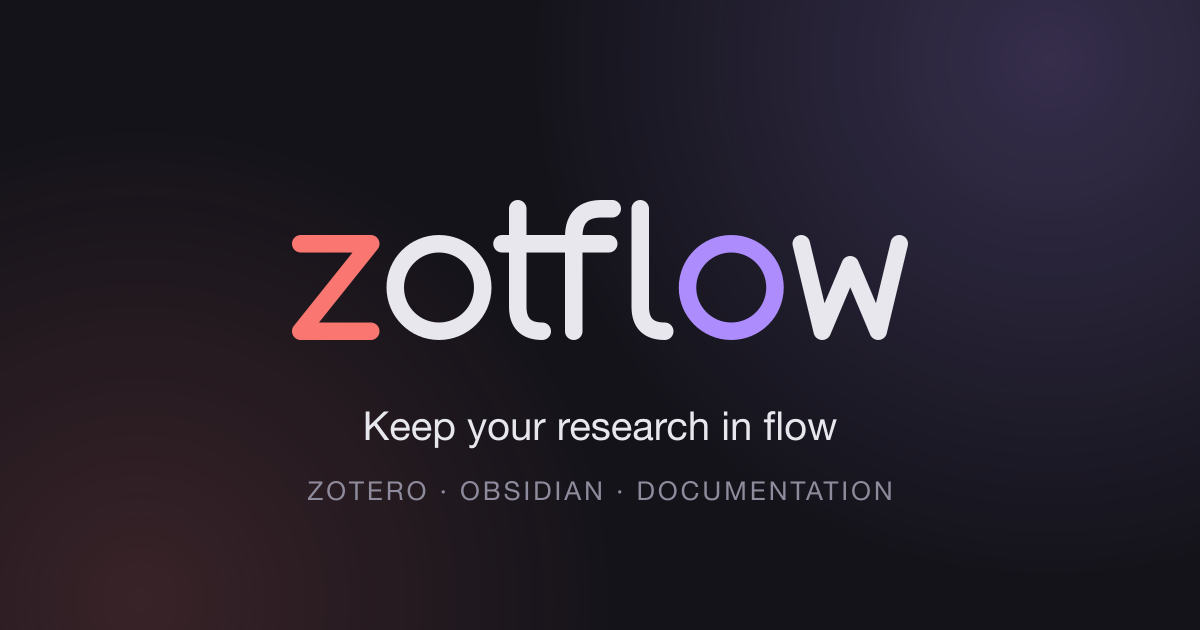
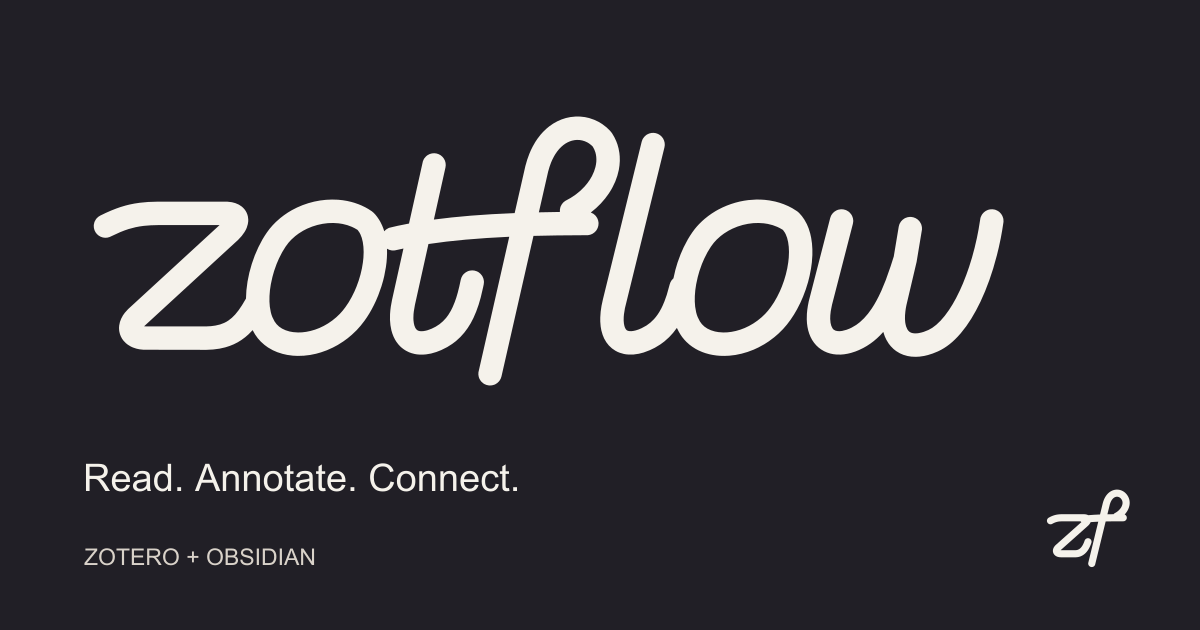
docs: new ZotFlow identity, warm neutrals and muted status colours
- Teal accent (#216A63 light, #4FB3A8 dark) replaces the violet/red
  scheme; new wordmark, favicon, touch icon and social card.
- Infima's cool blue-greys replaced with warm greys, and a neutral dark
  scale against Obsidian's #1E1E1E. The dark block now uses
  html[data-theme="dark"] so it wins over Infima's own.
- Admonitions: tip in the brand teal, note neutral, important, warning
  and caution in muted blue, amber and brick.
- Code block backgrounds, the copy tick and Mermaid flowcharts use the
  site's neutrals; the footer colour is set where Infima reads it.
- Hero: no gradient, wash background; the GitHub button is readable in
  dark mode. Navbar wordmark 32px high.

diff --git a/src/css/custom.css b/src/css/custom.css
@@ -1,35 +1,78 @@
 /**
  * ZotFlow theme.
  *
- * Colours come from the wordmark: Zotero red on the z, Obsidian violet on
- * the second o, ink for everything else. Violet carries links and the
- * active state; red is an accent only.
+ * Colours follow the brand guide: one accent, deep teal on light
+ * backgrounds and mint on dark ones, with ink, paper and a teal wash.
+ * No second accent and no large gradients.
+ *
+ * Infima's own greys are cool blue-greys and its status colours are fully
+ * saturated; both are replaced here so every component (admonitions,
+ * pagination, cards, the TOC) sits on the same warm neutrals.
  */
 
 :root {
-  --zf-red: #cc272e;
-  --zf-violet: #7e4ed7;
-  --zf-ink: #1f1e26;
-  --zf-paper: #fcfbf9;
+  --zf-accent: #216a63;
+  --zf-ink: #211f26;
+  --zf-paper: #faf8f4;
   --zf-surface: #ffffff;
-  --zf-muted: #6b6878;
-  --zf-border: #e8e5ee;
-  --zf-tint: rgba(126, 78, 215, 0.08);
+  --zf-muted: #6e6574;
+  --zf-border: #e6e0d8;
+  --zf-wash: #e3eeeb;
+  --zf-tint: rgba(33, 106, 99, 0.08);
+  --zf-footer: #211f26;
 
-  --ifm-color-primary: #7e4ed7;
-  --ifm-color-primary-dark: #7146c2;
-  --ifm-color-primary-darker: #6b42b7;
-  --ifm-color-primary-darkest: #583796;
-  --ifm-color-primary-light: #8b60db;
-  --ifm-color-primary-lighter: #9169dd;
-  --ifm-color-primary-lightest: #a583e3;
+  /* Warm greys between paper and ink. Infima builds its emphasis scale
+     (borders, secondary text, hover fills) from these. */
+  --ifm-color-gray-100: #f5f2eb;
+  --ifm-color-gray-200: #ebe6de;
+  --ifm-color-gray-300: #dcd5cb;
+  --ifm-color-gray-400: #cbc3b9;
+  --ifm-color-gray-500: #b0a7a8;
+  --ifm-color-gray-600: #8c838f;
+  --ifm-color-gray-700: #6e6574;
+  --ifm-color-gray-800: #45404b;
+  --ifm-color-gray-900: #211f26;
+
+  --ifm-color-primary: #216a63;
+  --ifm-color-primary-dark: #1e5f59;
+  --ifm-color-primary-darker: #1c5a54;
+  --ifm-color-primary-darkest: #174a45;
+  --ifm-color-primary-light: #24756d;
+  --ifm-color-primary-lighter: #267a72;
+  --ifm-color-primary-lightest: #2b8a81;
+
+  /* Status colours, matched to the teal's weight. Tip is the brand teal;
+     note is neutral; important, warning and caution keep their meaning
+     in muted blue, amber and brick. */
+  --ifm-color-secondary: #ebe6de;
+  --ifm-color-secondary-dark: #cbc3b9;
+  --ifm-color-secondary-contrast-background: var(--zf-surface);
+  --ifm-color-secondary-contrast-foreground: var(--zf-ink);
+  --ifm-color-success: #216a63;
+  --ifm-color-success-dark: #216a63;
+  --ifm-color-success-contrast-background: var(--zf-wash);
+  --ifm-color-success-contrast-foreground: #143f3b;
+  --ifm-color-info: #3a6788;
+  --ifm-color-info-dark: #3a6788;
+  --ifm-color-info-contrast-background: #e7eef3;
+  --ifm-color-info-contrast-foreground: #1d3446;
+  --ifm-color-warning: #b7801f;
+  --ifm-color-warning-dark: #b7801f;
+  --ifm-color-warning-contrast-background: #f8f0df;
+  --ifm-color-warning-contrast-foreground: #4a3509;
+  --ifm-color-danger: #b4433b;
+  --ifm-color-danger-dark: #b4433b;
+  --ifm-color-danger-contrast-background: #f7e8e5;
+  --ifm-color-danger-contrast-foreground: #4d1c18;
 
   --ifm-background-color: var(--zf-paper);
   --ifm-background-surface-color: var(--zf-surface);
+  --ifm-color-content: var(--zf-ink);
+  --ifm-color-content-secondary: var(--zf-muted);
   --ifm-font-color-base: var(--zf-ink);
   --ifm-heading-color: var(--zf-ink);
   --ifm-toc-border-color: var(--zf-border);
-  --ifm-hr-border-color: var(--zf-border);
+  --ifm-hr-background-color: var(--zf-border);
   --ifm-table-border-color: var(--zf-border);
 
   --ifm-font-family-base: system-ui, -apple-system, "Segoe UI", Roboto,
@@ -44,38 +87,109 @@
   --ifm-global-radius: 8px;
 
   --ifm-navbar-height: 3.75rem;
-  --ifm-navbar-background-color: rgba(252, 251, 249, 0.82);
+  --ifm-navbar-background-color: rgba(250, 248, 244, 0.82);
   --ifm-navbar-shadow: none;
   --ifm-menu-color-background-active: var(--zf-tint);
-  --ifm-menu-color-background-hover: rgba(31, 30, 38, 0.05);
-  --ifm-footer-background-color: #17161d;
+  --ifm-menu-color-background-hover: rgba(33, 31, 38, 0.05);
 
-  --docusaurus-highlighted-code-line-bg: rgba(126, 78, 215, 0.1);
+  --docusaurus-highlighted-code-line-bg: rgba(33, 106, 99, 0.1);
 }
 
-[data-theme="dark"] {
-  --zf-red: #f97770;
-  --zf-violet: #ad8dfd;
-  --zf-ink: #e7e7ed;
-  --zf-paper: #14131a;
-  --zf-surface: #1b1a22;
-  --zf-muted: #9a97a8;
-  --zf-border: #2b2935;
-  --zf-tint: rgba(173, 141, 253, 0.12);
+/* html[...] matches Infima's own dark selector, so these win over it. */
+html[data-theme="dark"] {
+  --zf-accent: #4fb3a8;
+  --zf-ink: #e6e3de;
+  --zf-paper: #1e1e1e;
+  --zf-surface: #252525;
+  --zf-muted: #aaa4ad;
+  --zf-border: #333132;
+  --zf-wash: #203c38;
+  --zf-tint: rgba(79, 179, 168, 0.12);
+  --zf-footer: #161616;
 
-  --ifm-color-primary: #ad8dfd;
-  --ifm-color-primary-dark: #9c7fe4;
-  --ifm-color-primary-darker: #9378d7;
-  --ifm-color-primary-darkest: #7963b1;
-  --ifm-color-primary-light: #b598fd;
-  --ifm-color-primary-lighter: #b99efd;
-  --ifm-color-primary-lightest: #c6affe;
+  /* Infima reverses the grey scale for dark mode; set the result
+     directly so it stays neutral against Obsidian's #1e1e1e. */
+  --ifm-color-emphasis-0: #161616;
+  --ifm-color-emphasis-100: #252525;
+  --ifm-color-emphasis-200: #2f2e2f;
+  --ifm-color-emphasis-300: #3d3b3f;
+  --ifm-color-emphasis-400: #57535a;
+  --ifm-color-emphasis-500: #77727a;
+  --ifm-color-emphasis-600: #9a959d;
+  --ifm-color-emphasis-700: #bdb8bf;
+  --ifm-color-emphasis-800: #dad6d2;
+  --ifm-color-emphasis-900: #ebe8e4;
+  --ifm-color-emphasis-1000: #ffffff;
 
-  --ifm-navbar-background-color: rgba(20, 19, 26, 0.8);
-  --ifm-menu-color-background-hover: rgba(231, 231, 237, 0.06);
-  --ifm-footer-background-color: #0f0e14;
+  --ifm-color-primary: #4fb3a8;
+  --ifm-color-primary-dark: #46a298;
+  --ifm-color-primary-darker: #429990;
+  --ifm-color-primary-darkest: #367e76;
+  --ifm-color-primary-light: #61bbb1;
+  --ifm-color-primary-lighter: #6abfb5;
+  --ifm-color-primary-lightest: #85cac3;
 
-  --docusaurus-highlighted-code-line-bg: rgba(173, 141, 253, 0.14);
+  --ifm-color-secondary: #3d3b3f;
+  --ifm-color-secondary-dark: #57535a;
+  --ifm-color-secondary-contrast-background: var(--zf-surface);
+  --ifm-color-secondary-contrast-foreground: var(--zf-ink);
+  --ifm-color-success: #4fb3a8;
+  --ifm-color-success-dark: #4fb3a8;
+  --ifm-color-success-contrast-background: var(--zf-wash);
+  --ifm-color-success-contrast-foreground: #d5ece8;
+  --ifm-color-info: #74a5c8;
+  --ifm-color-info-dark: #74a5c8;
+  --ifm-color-info-contrast-background: #1e2c37;
+  --ifm-color-info-contrast-foreground: #dbe8f1;
+  --ifm-color-warning: #d6a24a;
+  --ifm-color-warning-dark: #d6a24a;
+  --ifm-color-warning-contrast-background: #352b17;
+  --ifm-color-warning-contrast-foreground: #f4e7cc;
+  --ifm-color-danger: #dd7a71;
+  --ifm-color-danger-dark: #dd7a71;
+  --ifm-color-danger-contrast-background: #3a201d;
+  --ifm-color-danger-contrast-foreground: #f5dcd8;
+
+  --ifm-background-color: var(--zf-paper);
+  --ifm-background-surface-color: var(--zf-surface);
+  --ifm-color-content: var(--zf-ink);
+  --ifm-color-content-secondary: var(--zf-muted);
+  --ifm-toc-border-color: var(--zf-border);
+  --ifm-hover-overlay: rgba(230, 227, 222, 0.05);
+  --ifm-table-stripe-background: rgba(230, 227, 222, 0.04);
+  --ifm-scrollbar-track-background-color: #2a2a2a;
+  --ifm-scrollbar-thumb-background-color: #4a474c;
+  --ifm-scrollbar-thumb-hover-background-color: #5c595e;
+
+  --ifm-navbar-background-color: rgba(30, 30, 30, 0.8);
+  --ifm-menu-color-background-hover: rgba(230, 227, 222, 0.06);
+
+  --docusaurus-highlighted-code-line-bg: rgba(79, 179, 168, 0.14);
+}
+
+/* Mint is a light fill: text on it is ink (6.48:1), not white. */
+
+html[data-theme="dark"] .button--primary {
+  --ifm-button-color: #211f26;
+}
+
+/* Inline code and links inside an admonition get a tint of its own
+   colour (Infima hard-codes the default green, blue, yellow and red). */
+
+.alert--success {
+  --ifm-alert-background-color-highlight: color-mix(in srgb, var(--ifm-color-success) 14%, transparent);
+}
+
+.alert--info {
+  --ifm-alert-background-color-highlight: color-mix(in srgb, var(--ifm-color-info) 14%, transparent);
+}
+
+.alert--warning {
+  --ifm-alert-background-color-highlight: color-mix(in srgb, var(--ifm-color-warning) 14%, transparent);
+}
+
+.alert--danger {
+  --ifm-alert-background-color-highlight: color-mix(in srgb, var(--ifm-color-danger) 14%, transparent);
 }
 
 /* Navbar: translucent, a hairline instead of a shadow. */
@@ -87,7 +201,8 @@
 }
 
 .navbar__logo {
-  height: 1.375rem;
+  /* 32px: the guide prefers 40px, but the wordmark still reads here. */
+  height: 2rem;
   margin-right: 1rem;
 }
 
@@ -122,7 +237,7 @@
 }
 
 .markdown blockquote {
-  border-left-color: var(--zf-violet);
+  border-left-color: var(--zf-accent);
   background: var(--zf-tint);
   border-radius: 0 var(--ifm-global-radius) var(--ifm-global-radius) 0;
   padding: 0.75rem 1rem;
@@ -177,9 +292,11 @@
 /* Footer */
 
 .footer--dark {
-  --ifm-footer-link-color: #b4b1c1;
-  --ifm-footer-title-color: #e7e7ed;
-  --ifm-footer-color: #8e8b9c;
+  /* Infima sets its own slate here, so the root variable never reaches it. */
+  --ifm-footer-background-color: var(--zf-footer);
+  --ifm-footer-link-color: #c9c3cc;
+  --ifm-footer-title-color: #f5f2eb;
+  --ifm-footer-color: #9a93a0;
 }
 
 .footer__logo {
@@ -195,10 +312,7 @@
   text-align: center;
   border: 1px solid var(--zf-border);
   border-radius: 16px;
-  background:
-    radial-gradient(60% 90% at 100% 0%, color-mix(in srgb, var(--zf-violet) 14%, transparent), transparent 70%),
-    radial-gradient(50% 80% at 0% 100%, color-mix(in srgb, var(--zf-red) 10%, transparent), transparent 70%),
-    var(--zf-surface);
+  background: var(--zf-wash);
 }
 
 .zf-hero__title {
@@ -218,12 +332,9 @@
   font-weight: 500;
 }
 
-.zf-hero__tagline .zf-in {
-  color: var(--zf-red);
-}
-
+.zf-hero__tagline .zf-in,
 .zf-hero__tagline .zf-out {
-  color: var(--zf-violet);
+  color: var(--zf-accent);
 }
 
 .zf-hero__actions {
@@ -250,4 +361,54 @@
   clip: rect(0, 0, 0, 0);
   white-space: nowrap;
   border: 0;
+}
+
+.markdown .zf-hero .button--secondary {
+  --ifm-button-background-color: var(--zf-surface);
+  --ifm-button-border-color: var(--zf-border);
+  /* Infima pins secondary buttons to gray-900, dark in both themes. */
+  color: var(--zf-ink);
+}
+
+/* Code blocks: the copy button's "copied" tick is a hard-coded bright
+   green in Docusaurus. */
+
+[class*="copyButtonSuccessIcon"] {
+  color: var(--ifm-color-primary);
+}
+
+/* Mermaid: the neutral and dark themes draw cool greys; recolour the
+   flowchart parts we use with the site's neutrals. Mermaid scopes its own
+   styles to the diagram's id, hence !important. */
+
+.docusaurus-mermaid-container .node rect,
+.docusaurus-mermaid-container .node circle,
+.docusaurus-mermaid-container .node ellipse,
+.docusaurus-mermaid-container .node polygon,
+.docusaurus-mermaid-container .node path {
+  fill: var(--zf-surface) !important;
+  stroke: var(--ifm-color-emphasis-500) !important;
+}
+
+.docusaurus-mermaid-container .flowchart-link {
+  stroke: var(--zf-muted) !important;
+}
+
+.docusaurus-mermaid-container .marker,
+.docusaurus-mermaid-container .arrowMarkerPath {
+  fill: var(--zf-muted) !important;
+  stroke: var(--zf-muted) !important;
+}
+
+.docusaurus-mermaid-container .nodeLabel,
+.docusaurus-mermaid-container .edgeLabel,
+.docusaurus-mermaid-container .label {
+  color: var(--zf-ink) !important;
+  fill: var(--zf-ink) !important;
+}
+
+.docusaurus-mermaid-container .edgeLabel,
+.docusaurus-mermaid-container .edgeLabel p,
+.docusaurus-mermaid-container .labelBkg {
+  background-color: var(--ifm-background-color) !important;
 }

diff --git a/docusaurus.config.js b/docusaurus.config.js
@@ -158,8 +158,8 @@ const config = {
           alt: "ZotFlow",
           src: "img/zotflow-light.svg",
           srcDark: "img/zotflow-dark.svg",
-          width: 95,
-          height: 22,
+          width: 107,
+          height: 32,
         },
         items: [
           // {
@@ -183,7 +183,7 @@ const config = {
           alt: "ZotFlow",
           src: "img/zotflow-dark.svg",
           width: 120,
-          height: 28,
+          height: 36,
         },
         links: [
           {
@@ -221,8 +221,16 @@ const config = {
         copyright: `Copyright © ${new Date().getFullYear()} Xianpi Duan. Built with Docusaurus.`,
       },
       prism: {
-        theme: prismThemes.github,
-        darkTheme: prismThemes.oneDark,
+        // Token colours from GitHub / One Dark; backgrounds from the site's
+        // warm surface and Obsidian's neutral dark.
+        theme: {
+          ...prismThemes.github,
+          plain: { ...prismThemes.github.plain, backgroundColor: "#f4f1ec" },
+        },
+        darkTheme: {
+          ...prismThemes.oneDark,
+          plain: { ...prismThemes.oneDark.plain, backgroundColor: "#262626" },
+        },
       },
       mermaid: {
         theme: { light: "neutral", dark: "dark" },

diff --git a/src/components/DocHero.js b/src/components/DocHero.js
@@ -15,8 +15,8 @@ export default function DocHero({ title, tagline, actions = [] }) {
         <ThemedImage
           className="zf-hero__logo"
           alt=""
-          width={354}
-          height={82}
+          width={373}
+          height={112}
           sources={{
             light: useBaseUrl("/img/zotflow-light.svg"),
             dark: useBaseUrl("/img/zotflow-dark.svg"),
